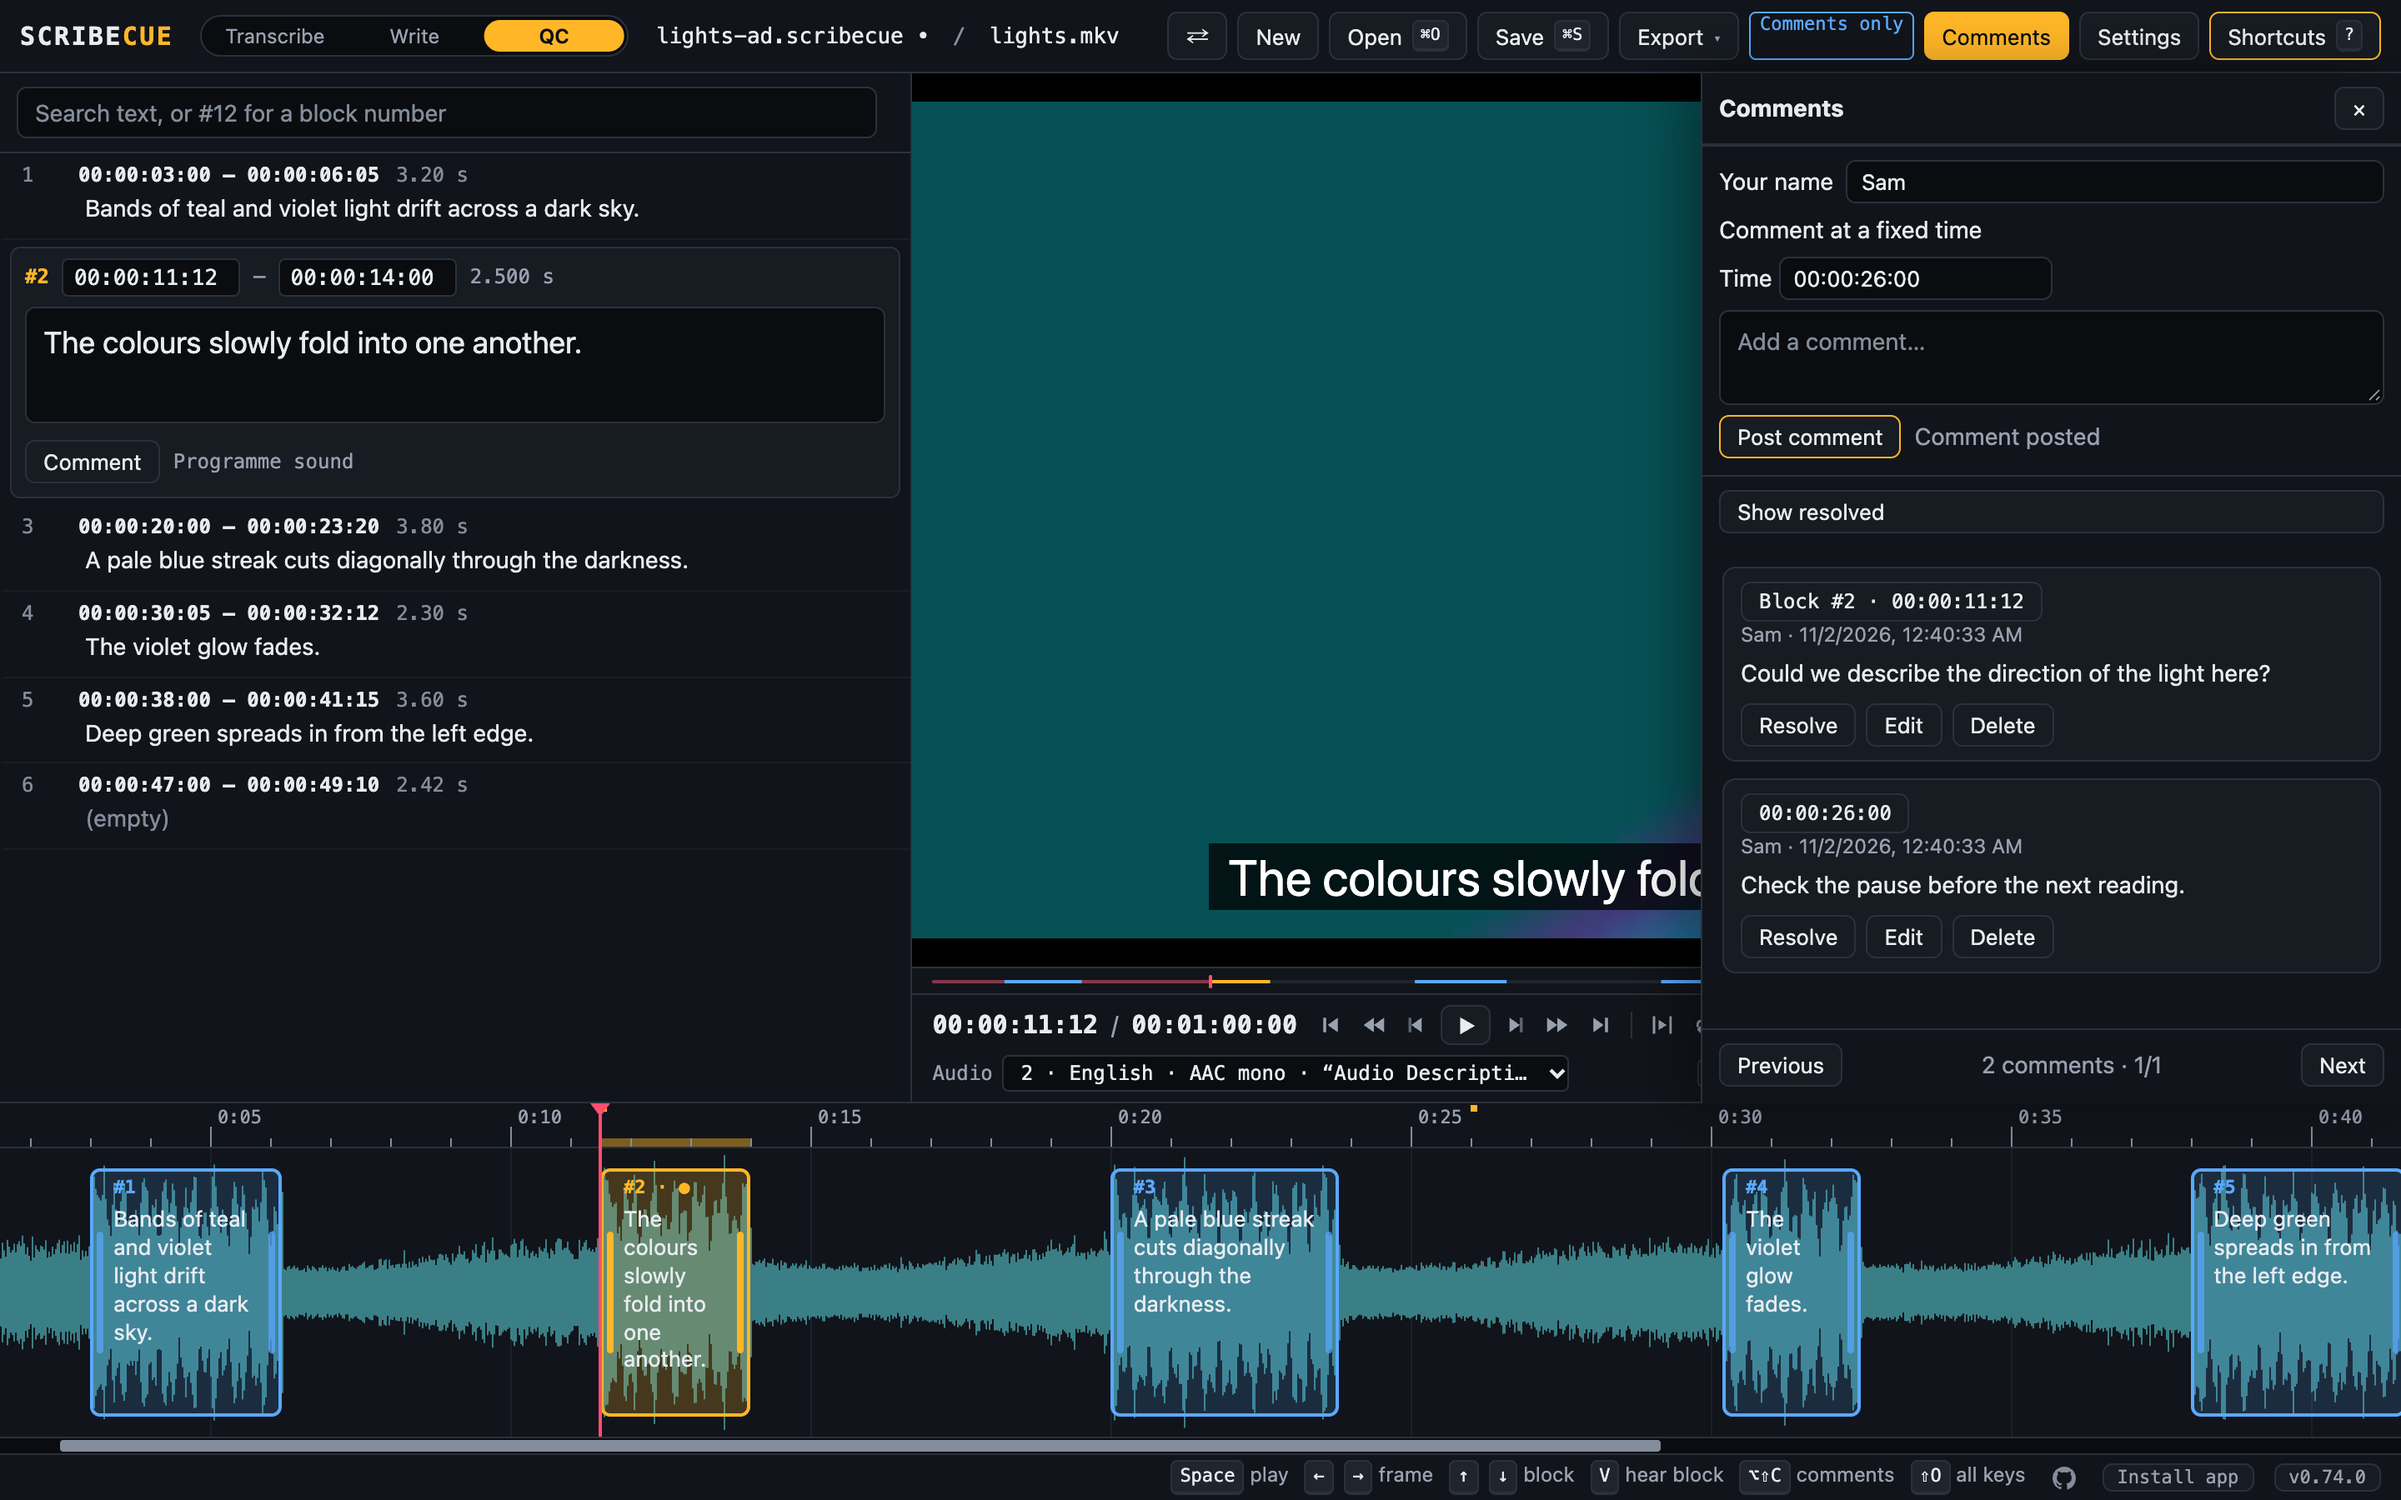
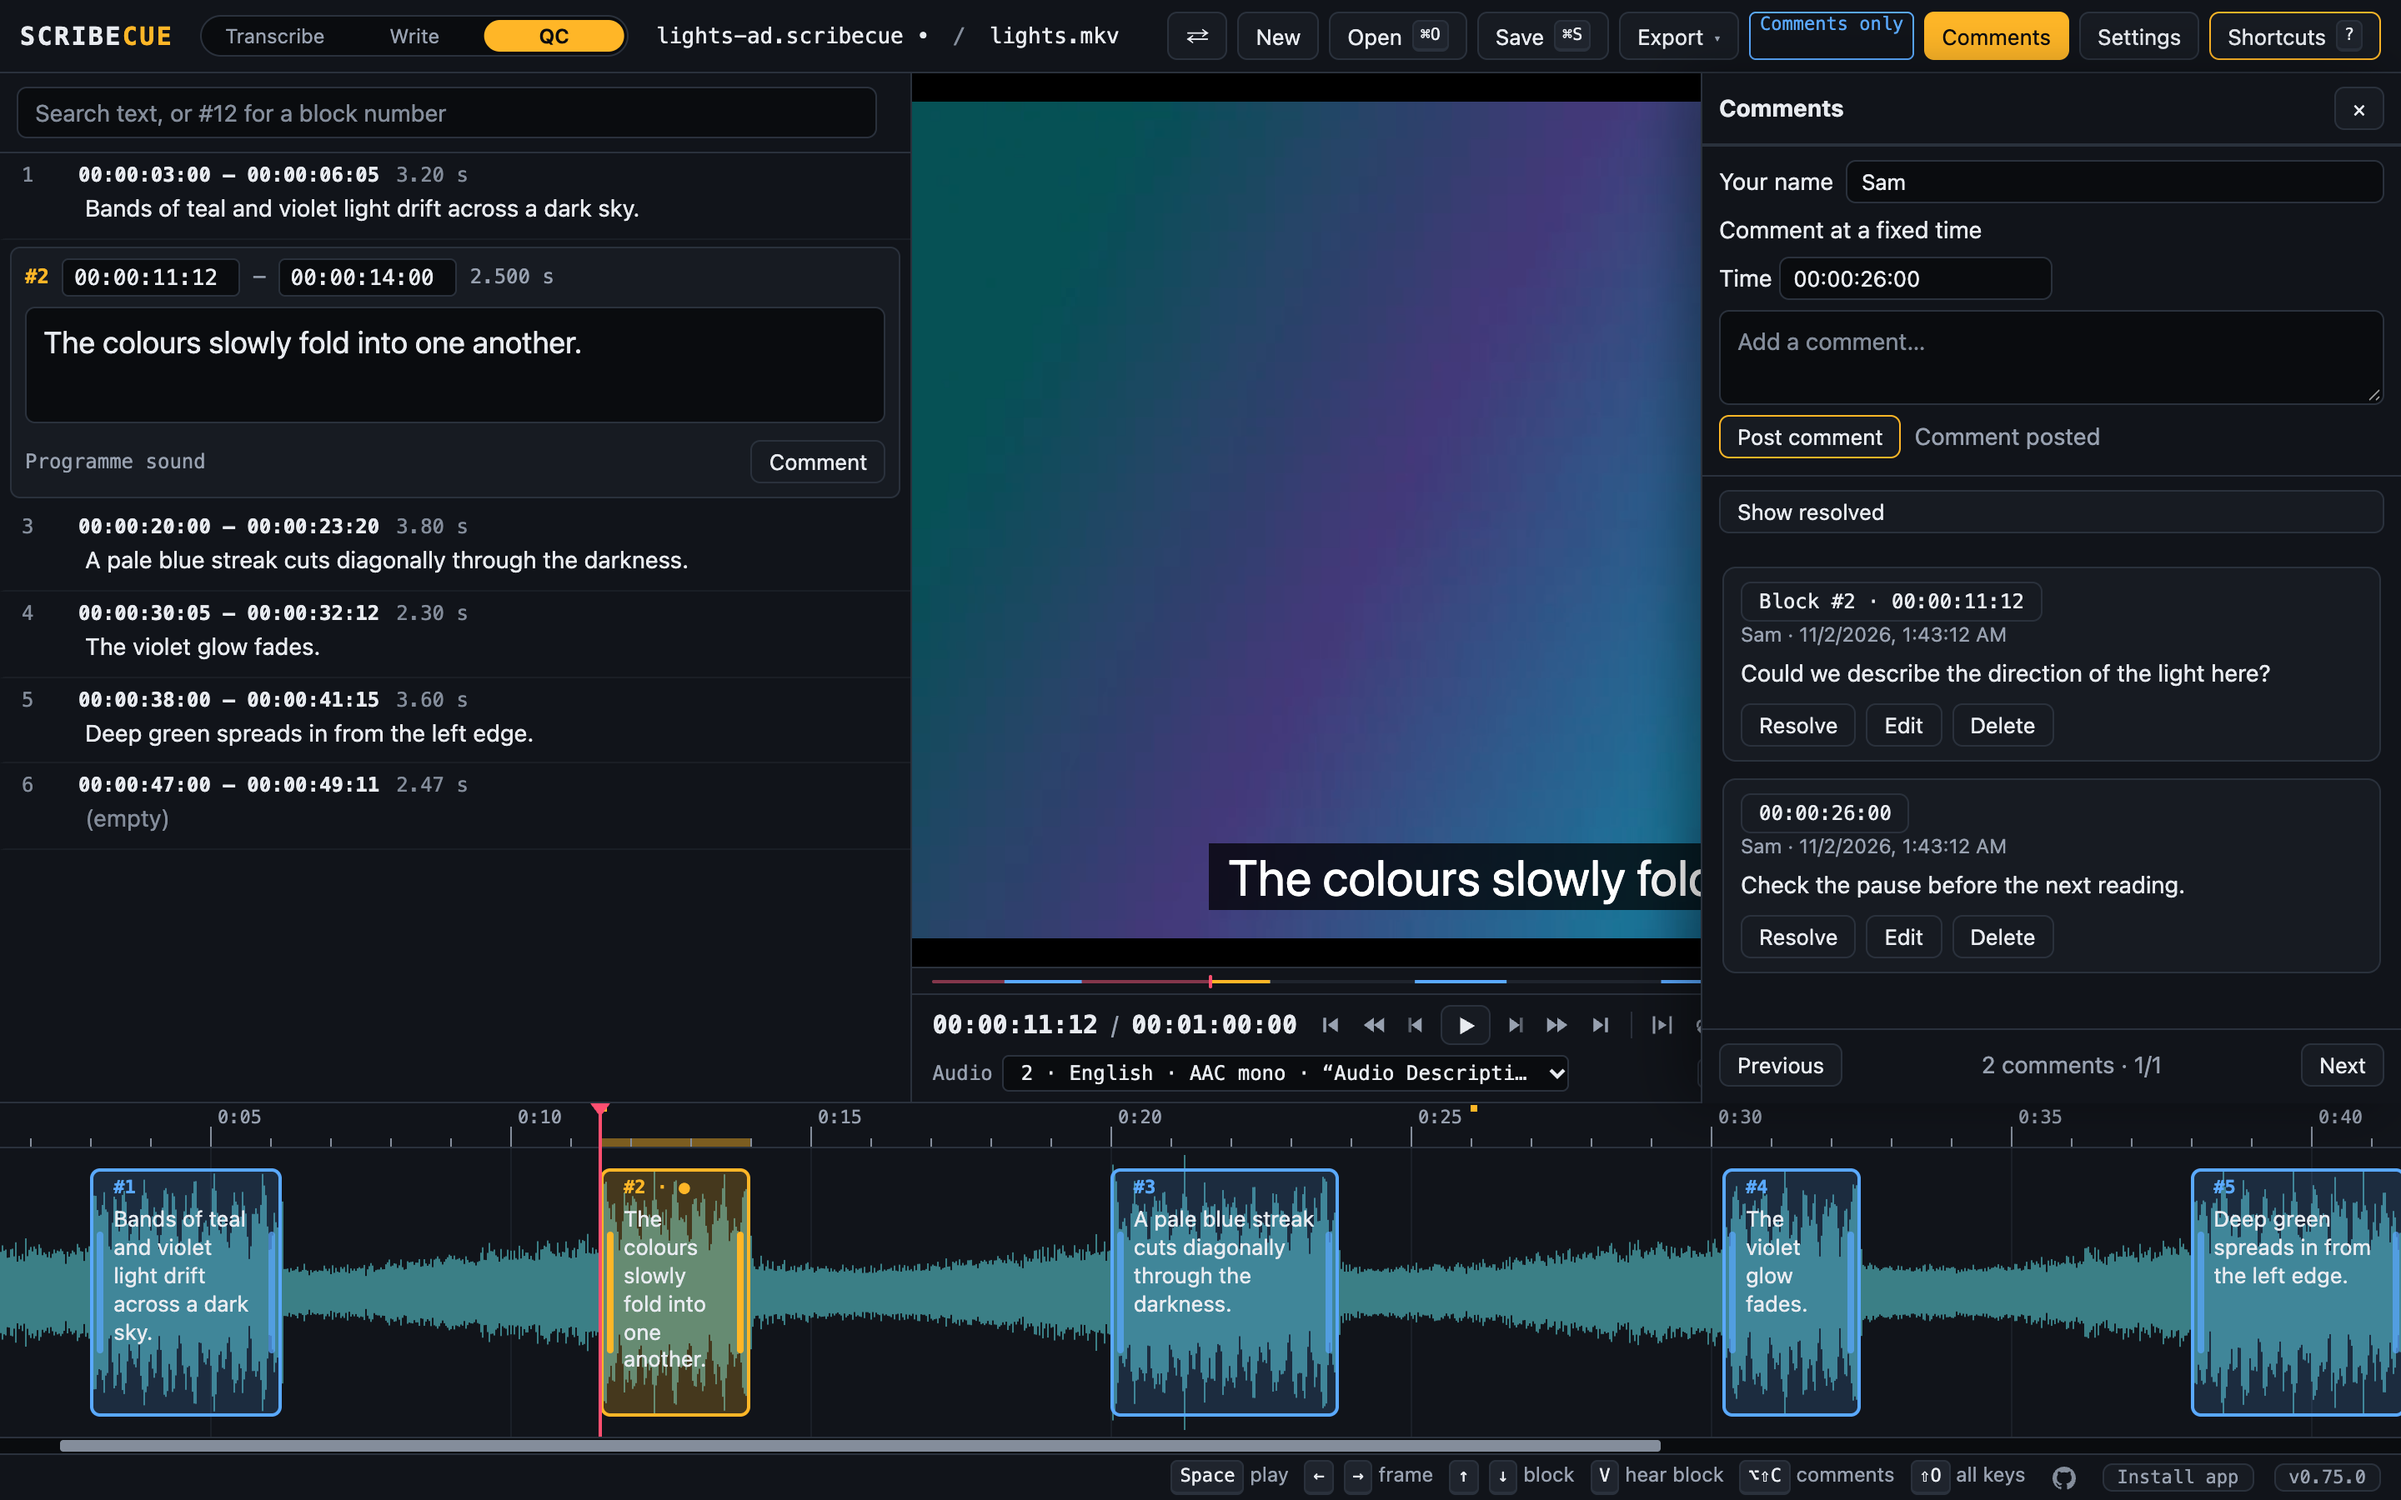
Move the block editor's Comment button to the right
Its tooltip ran off the left edge of the window. It now opens leftward
from the button's right edge.

diff --git a/app/index.html b/app/index.html
@@ -126,7 +126,7 @@
             <button id="edPickup" aria-pressed="false" data-tip="Pickup: ask the narrator to record this block again, in the next recording file. Lines you reword are asked for anyway">Pickup</button>
             <input id="edPickupNote" type="text" maxlength="500" spellcheck="true" autocomplete="off" hidden
               placeholder="Note for the narrator, such as how to say a name" aria-label="Note for the narrator"></div>
-          <div class="edtts" id="qcCommentRow"><button id="edComment" aria-controls="commentsDrawer" data-tip="Add a comment to this block">Comment</button><span id="qcBlockInfo" class="dim qc-only"></span><button id="qcPrevious" aria-pressed="false" hidden data-tip="Hear the old audio alone. It does not match the edited block">Hear previous reading</button></div>
+          <div class="edtts" id="qcCommentRow"><span id="qcBlockInfo" class="dim qc-only"></span><button id="qcPrevious" aria-pressed="false" hidden data-tip="Hear the old audio alone. It does not match the edited block">Hear previous reading</button><span class="grow"></span><button id="edComment" class="tip-end" aria-controls="commentsDrawer" data-tip="Add a comment to this block">Comment</button></div>
         </div>
       </div>
       <div id="pendingPane" class="pendingpane" role="tabpanel" aria-label="Pending review">
